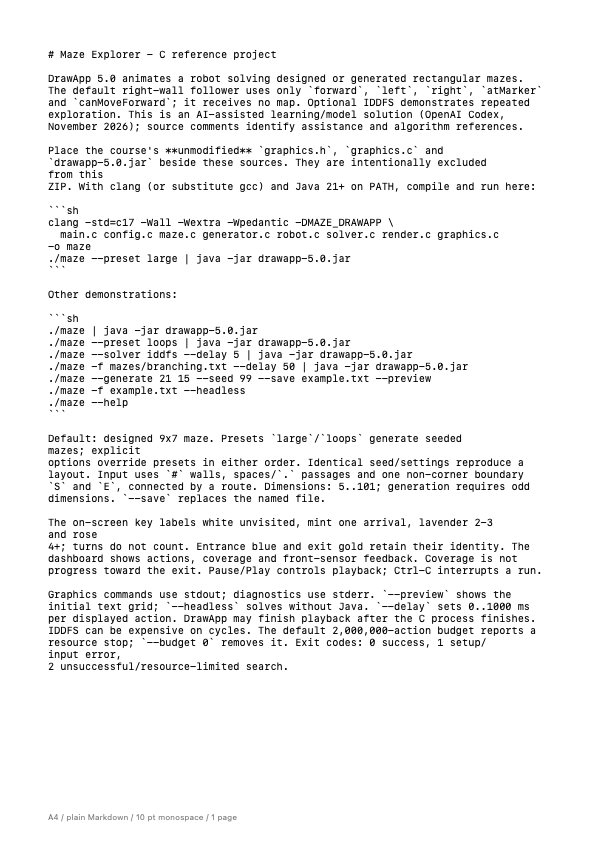
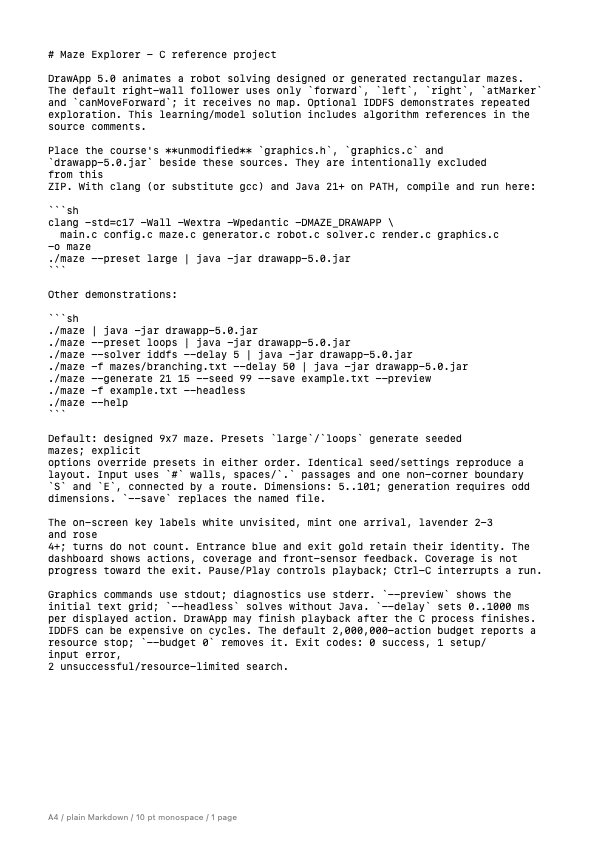
Update

Changed region(s): [[0.0906, 0.1235, 0.8758, 0.1544]]

diff --git a/solver.c b/solver.c
@@ -2,8 +2,7 @@
 #include <limits.h>
 #include <stdlib.h>
 
-/* AI-assisted reference implementation: OpenAI Codex, November 2026.
-   Failed IDDFS branches restore their entry pose; frames hold no maze map. */
+/* Failed IDDFS branches restore their entry pose; frames hold no maze map. */
 /* Algorithm: Russell/Norvig, AIMA, chapter 3, iterative deepening.
    https://aima.cs.berkeley.edu/4th-ed/pdfs/newchap03.pdf */
 typedef struct Frame

diff --git a/maze.c b/maze.c
@@ -4,8 +4,7 @@
 #include <stdio.h>
 #include <stdlib.h>
 
-/* AI-assisted reference implementation: OpenAI Codex, November 2026.
-   Reachability uses breadth-first search, isolated from the robot solver. */
+/* Reachability uses breadth-first search, isolated from the robot solver. */
 static int fail(char *error, size_t capacity, const char *message)
 {
     if (error != NULL && capacity > 0)

diff --git a/generator.c b/generator.c
@@ -3,7 +3,6 @@
 #include <stdint.h>
 #include <stdio.h>
 
-/* AI-assisted reference implementation: OpenAI Codex, November 2026. */
 /* Algorithm background: Jamis Buck, Maze Generation: Recursive Backtracking.
    https://weblog.jamisbuck.org/2010/12/27/maze-generation-recursive-backtracking */
 /* LCG parameters: Press et al., Numerical Recipes in C, 2nd ed., section 7.1. */

diff --git a/render.c b/render.c
@@ -3,8 +3,7 @@
 #include <stdio.h>
 #include <stdlib.h>
 
-/* AI-assisted reference implementation: OpenAI Codex, November 2026.
-   Exploration marks are display state only; the solver cannot access them. */
+/* Exploration marks are display state only; the solver cannot access them. */
 
 static size_t cellIndex(const Renderer *renderer, int x, int y)
 {

diff --git a/config.c b/config.c
@@ -5,7 +5,6 @@
 #include <stdlib.h>
 #include <string.h>
 
-/* AI-assisted reference implementation: OpenAI Codex, November 2026. */
 void printUsage(const char *program)
 {
     printf("Usage: %s [options]\n", program);

diff --git a/generator.h b/generator.h
@@ -1,8 +1,6 @@
 #ifndef GENERATOR_H
 #define GENERATOR_H
 
-/* AI-assisted reference interfaces: OpenAI Codex, November 2026. */
-
 #include "maze.h"
 
 int mazeGenerate(Maze *maze, int width, int height, unsigned seed,

diff --git a/robot.h b/robot.h
@@ -1,8 +1,6 @@
 #ifndef ROBOT_H
 #define ROBOT_H
 
-/* AI-assisted reference interfaces: OpenAI Codex, November 2026. */
-
 typedef struct Robot Robot;
 void forward(Robot *robot);
 void left(Robot *robot);

diff --git a/robot_internal.h b/robot_internal.h
@@ -1,8 +1,6 @@
 #ifndef ROBOT_INTERNAL_H
 #define ROBOT_INTERNAL_H
 
-/* AI-assisted reference interfaces: OpenAI Codex, November 2026. */
-
 #include <stddef.h>
 #include "maze.h"
 #include "robot.h"

diff --git a/main.c b/main.c
@@ -6,7 +6,6 @@
 #include "render.h"
 #include "robot_internal.h"
 #include "solver.h"
-/* AI-assisted reference implementation: OpenAI Codex, November 2026. */
 
 int main(int argc, char **argv)
 {

diff --git a/maze.h b/maze.h
@@ -1,8 +1,6 @@
 #ifndef MAZE_H
 #define MAZE_H
 
-/* AI-assisted reference interfaces: OpenAI Codex, November 2026. */
-
 #include <stddef.h>
 
 enum { MAZE_MIN_SIZE = 5, MAZE_MAX_SIZE = 101 };

diff --git a/render.h b/render.h
@@ -1,8 +1,6 @@
 #ifndef RENDER_H
 #define RENDER_H
 
-/* AI-assisted reference interfaces: OpenAI Codex, November 2026. */
-
 #include <stddef.h>
 #include "maze.h"
 #include "robot_internal.h"

diff --git a/config.h b/config.h
@@ -1,8 +1,6 @@
 #ifndef CONFIG_H
 #define CONFIG_H
 
-/* AI-assisted reference interfaces: OpenAI Codex, November 2026. */
-
 #include <stddef.h>
 #include "solver.h"
 
